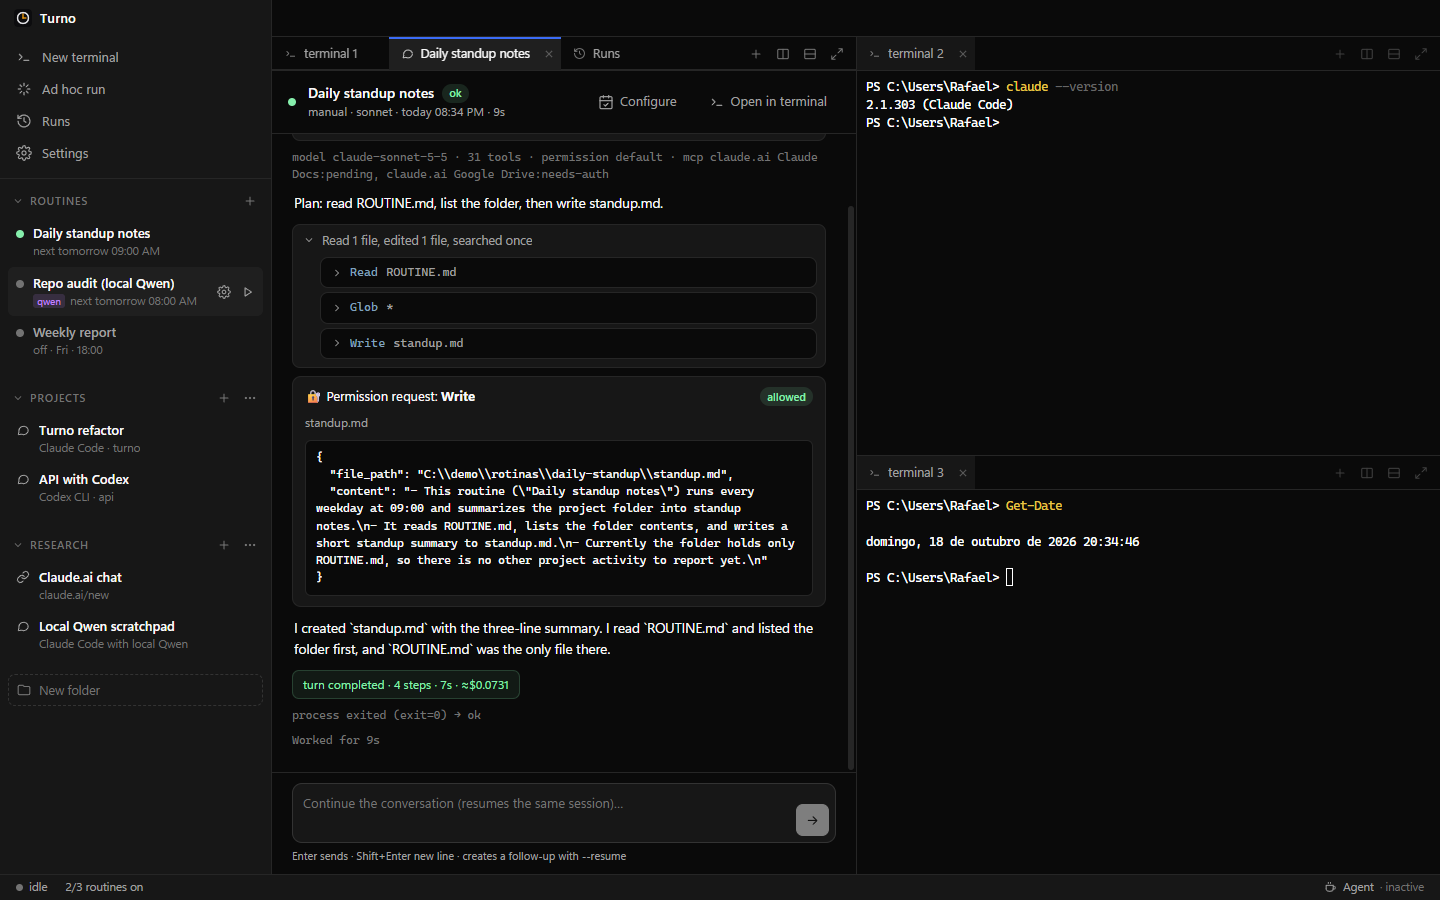
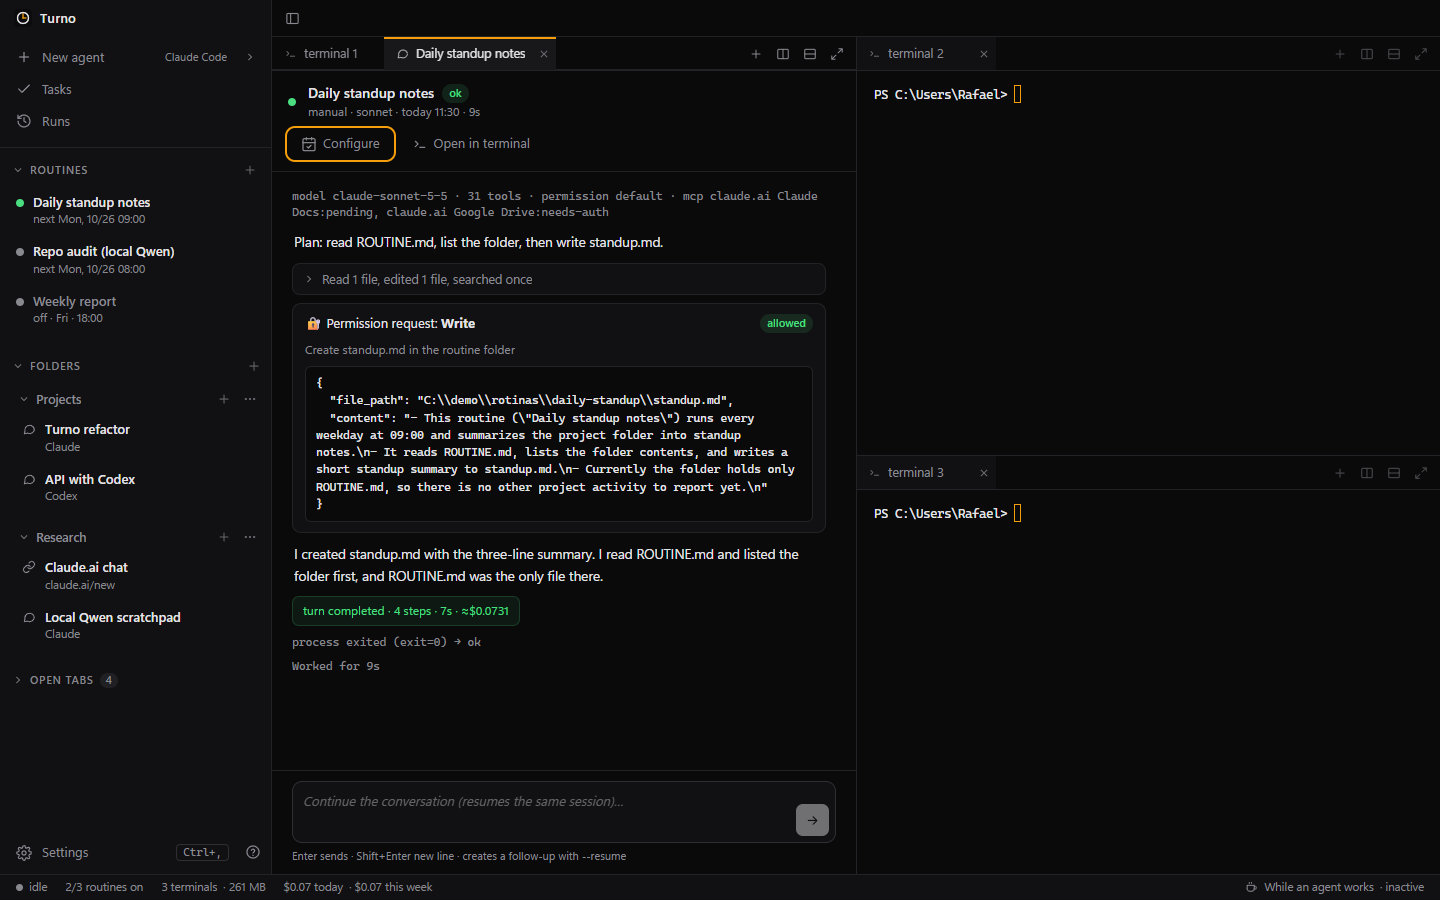
docs: refresh README screenshots for 0.9.6 UI (demo data)
The session/editor/themes screenshots predated the 0.9.0 navigation
redesign (New agent split button, Tasks/Runs destinations, single
Folders group, modal Runs/history, dropdown theme picker). Regenerated
them against the current UI using an isolated demo profile and seeded
demo data (no live agent run, no quota spent); updated the themes
caption since the theme grid is now a dropdown picker.

diff --git a/README.md b/README.md
@@ -137,7 +137,7 @@ Prompt. Be explicit: nobody is watching to answer questions.
 
 ## Workspace: terminals, folders, themes
 
-![Turno themes and terminal settings](screenshots/themes.png)
+![Turno's color theme picker in Settings](screenshots/themes.png)
 
 - **Terminals:** xterm.js 6 with WebGL, search (Ctrl+F), clickable links, Unicode 11 and bracketed paste. Ctrl+Shift+C/V copy and paste, right click copies or pastes, and Shift+Enter inserts a newline in the Claude Code prompt.
 - **Splits:** drag a tab onto another pane and pick a cell on the drop compass, use the split buttons in each pane header, or press Alt+Shift+= / Alt+Shift+-. The layout is saved between launches.
